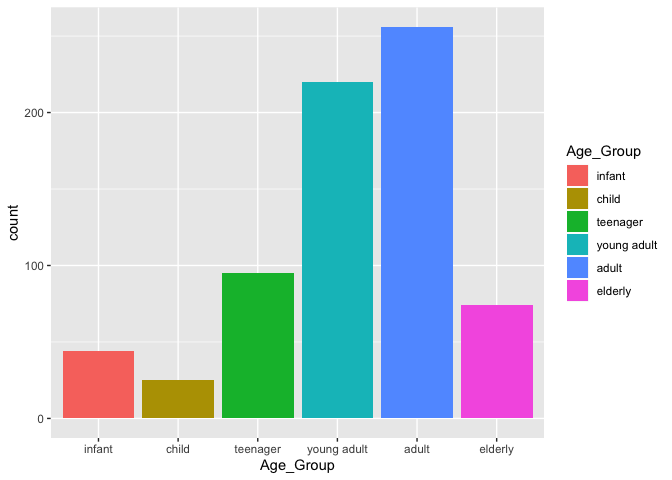
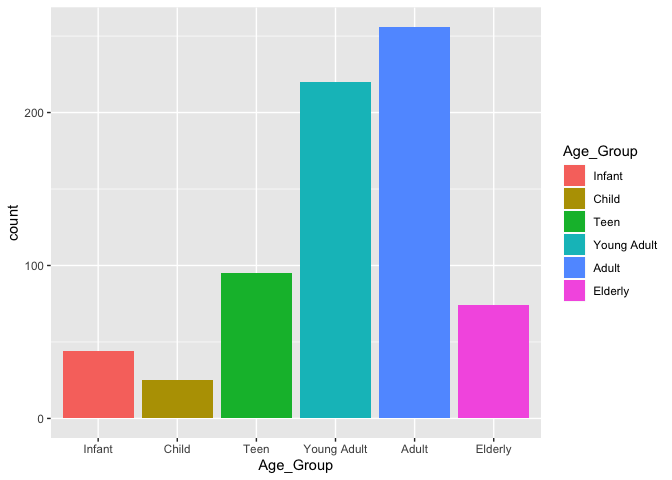
Update

diff --git a/Analysis.md b/Analysis.md
@@ -13,7 +13,7 @@ surviving due to those groups likely taking priority when filling the
 lifeboats. A thorough analysis will be conducted to test this
 hypothesis.
 
-## Analysis
+## Data
 
 ``` r
 glimpse(train_data)
@@ -63,7 +63,7 @@ elderly (50+). Passengers with unknown age will be ommitted.
 ``` r
 train_data <- train_data %>%
   filter(!is.na(Age)) %>%
-  mutate(Age_Group = cut(Age, breaks = c(0, 5, 12, 19, 29, 49, 80), labels = c("infant", "child", "teenager", "young adult", "adult", "elderly")))
+  mutate(Age_Group = cut(Age, breaks = c(0, 5, 12, 19, 29, 49, 80), labels = c("Infant", "Child", "Teen", "Young Adult", "Adult", "Elderly")))
 ```
 
 ``` r
@@ -92,3 +92,10 @@ surviving, likely due to priority on the life boats.
 
 With a basic idea of what to expect from the graphs, it is time to start
 building a model to predict survival.
+
+## Model Selection
+
+Since we are dealing with a classification problem, we will consider a
+few different modeling methods: K nearest neighbors, logistic
+regression, linear discriminant analysis, and quadratic discriminant
+analysis.
